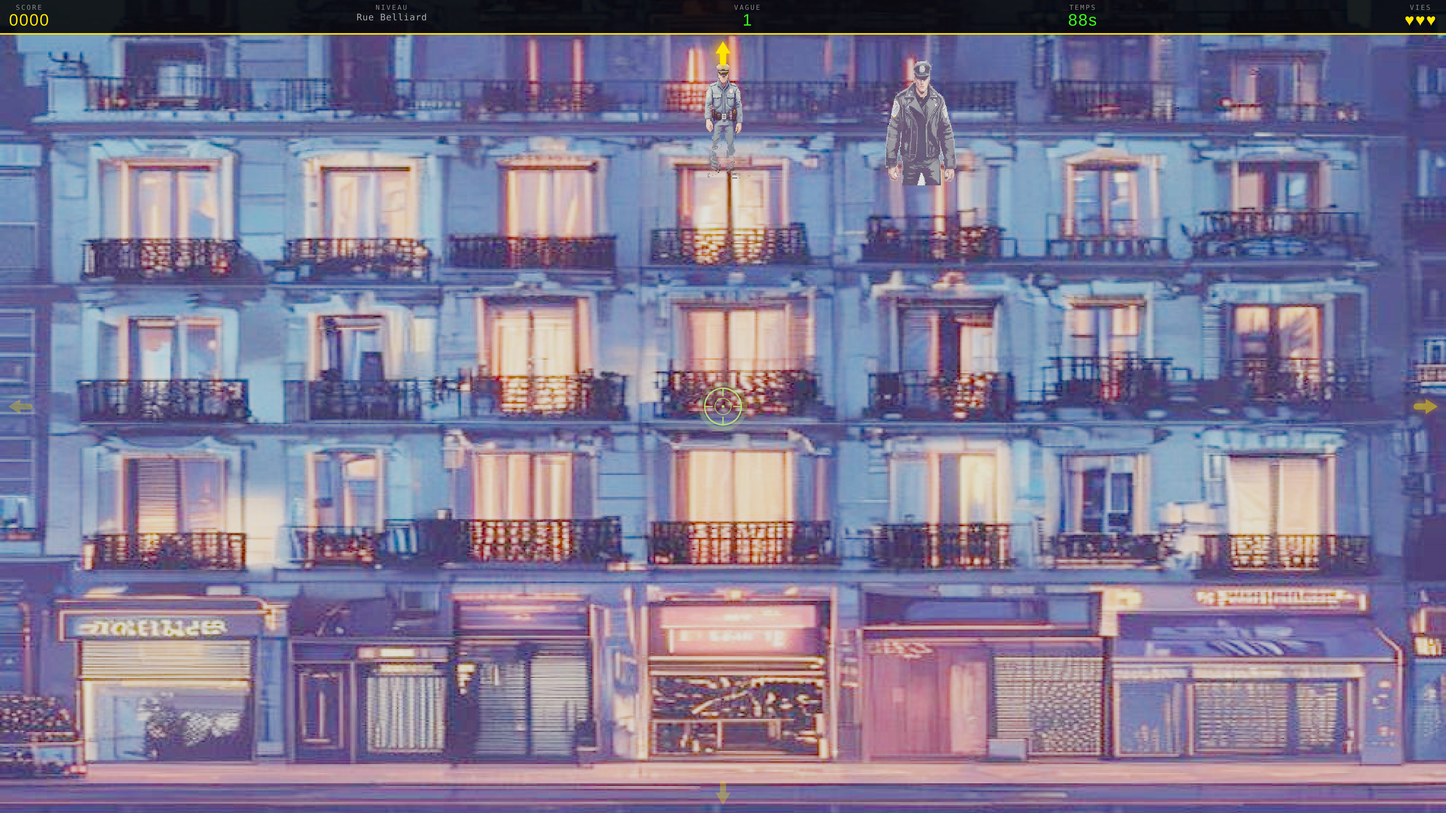
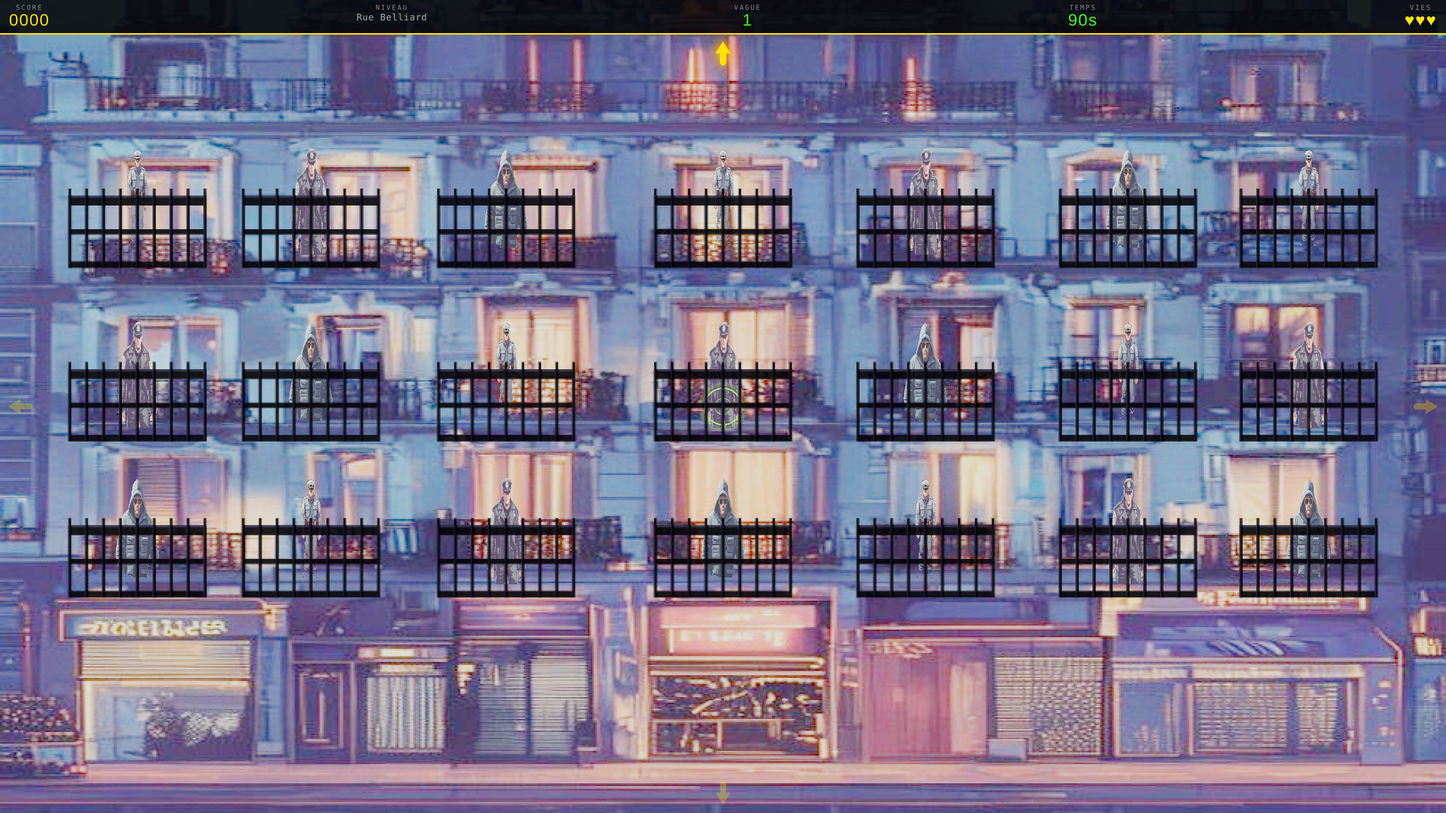
feat: AI facade backdrops + procedural balcony railings per level
Background facades are AI-generated (sky/facade/street) per level; the
foreground is procedural wrought-iron balcony railings drawn from per-level
window zones in levelArt.json, composited in front of the cops. Cops are
sized to the window and lowered so they stand behind the railing. Preview
workflow renders a contact-sheet artifact (with a dev-only freeze-cops hook).

diff --git a/src/render/scene/ForegroundFrames.tsx b/src/render/scene/ForegroundFrames.tsx
@@ -1,0 +1,89 @@
+import type { JSX } from "react";
+import { useMemo } from "react";
+import { CanvasTexture } from "three";
+import type { WindowZone } from "@game/levels/levelArt";
+import { applyPixelFilter } from "./pixelArt";
+
+// Native facade resolution to draw the frame texture at (matches the art).
+const TEX_W = 1280;
+const TEX_H = 768;
+const IRON = "rgba(9,7,18,0.88)";
+const HILIGHT = "rgba(150,150,180,0.32)";
+
+/**
+ * Build a transparent overlay texture: for each window zone, a wrought-iron
+ * frame + mullion cross and a balcony railing across the lower half. Drawn in
+ * facade-image space (y-down) so it lines up with the zones the cops sit in.
+ */
+function buildFrameTexture(zones: readonly WindowZone[]): CanvasTexture | null {
+  if (typeof document === "undefined") return null;
+  const canvas = document.createElement("canvas");
+  canvas.width = TEX_W;
+  canvas.height = TEX_H;
+  const g = canvas.getContext("2d");
+  if (g === null) return null;
+
+  g.clearRect(0, 0, TEX_W, TEX_H);
+  const lw = Math.max(2, TEX_W * 0.0045);
+
+  for (const z of zones) {
+    const ww = z.w * TEX_W;
+    const hh = z.h * TEX_H;
+    const left = z.x * TEX_W - ww / 2;
+    const top = z.y * TEX_H - hh / 2;
+    const cy = z.y * TEX_H;
+
+    // Wrought-iron balcony railing — the only foreground element, crossing in
+    // front of the cop's lower body. Top + mid + bottom rails, thin round
+    // balusters (left-edge sheen for a cylindrical look) and spear finials.
+    const railLeft = left - ww * 0.05;
+    const railW = ww * 1.1;
+    const railTop = cy + hh * 0.2;
+    const railBottom = top + hh + hh * 0.22;
+    const midY = (railTop + railBottom) / 2;
+
+    g.fillStyle = IRON;
+    g.fillRect(railLeft, railTop, railW, lw * 1.5); // top rail
+    g.fillRect(railLeft, midY - lw * 0.4, railW, lw * 0.8); // ornate mid rail
+    g.fillRect(railLeft, railBottom - lw, railW, lw); // bottom rail
+    g.fillStyle = HILIGHT;
+    g.fillRect(railLeft, railTop, railW, Math.max(1, lw * 0.35)); // top-rail sheen
+
+    const balusters = Math.max(6, Math.round(railW / (TEX_W * 0.012)));
+    const bw = lw * 0.5;
+    for (let i = 0; i <= balusters; i++) {
+      const bx = railLeft + railW * (i / balusters);
+      g.fillStyle = IRON;
+      g.fillRect(bx - bw / 2, railTop, bw, railBottom - railTop); // baluster
+      g.fillRect(bx - bw * 0.4, railTop - lw * 1.1, bw * 0.8, lw * 1.1); // spear finial
+      g.fillStyle = HILIGHT;
+      g.fillRect(bx - bw / 2, railTop, Math.max(1, bw * 0.34), railBottom - railTop); // sheen
+    }
+  }
+
+  const tex = new CanvasTexture(canvas);
+  applyPixelFilter(tex);
+  tex.needsUpdate = true;
+  return tex;
+}
+
+interface Props {
+  zones: readonly WindowZone[];
+  facadeW: number;
+  facadeH: number;
+}
+
+/**
+ * Foreground décor layer: window bars and iron railings rendered in front of
+ * the cops (z above the enemies), so they read as standing behind the windows.
+ */
+export function ForegroundFrames({ zones, facadeW, facadeH }: Props): JSX.Element | null {
+  const texture = useMemo(() => buildFrameTexture(zones), [zones]);
+  if (texture === null) return null;
+  return (
+    <mesh position={[0, 0, 0.5]} renderOrder={5}>
+      <planeGeometry args={[facadeW, facadeH]} />
+      <meshBasicMaterial map={texture} transparent depthWrite={false} />
+    </mesh>
+  );
+}

diff --git a/src/render/scene/EnemySprite.tsx b/src/render/scene/EnemySprite.tsx
@@ -39,9 +39,20 @@ interface Props {
   stateRef: React.RefObject<GameState>;
   slotIndex: number;
   screenPosition: Vec2;
+  /** World-space window size; the cop is sized to stand in it. */
+  size?: Vec2 | undefined;
 }
 
-export function EnemySprite({ stateRef, slotIndex, screenPosition }: Props): JSX.Element {
+export function EnemySprite({ stateRef, slotIndex, screenPosition, size }: Props): JSX.Element {
+  // Size the cop to roughly fit the window opening (head near the top, legs
+  // behind the railing), portrait aspect. Fallback for grid-only levels.
+  const planeH = size !== undefined ? size.y * 0.8 : 1.3;
+  const planeW = size !== undefined ? planeH * 0.5 : 0.8;
+  // Drop the sprite below the window centre so the feet rest at the sill/balcony
+  // and the railing crosses the legs (instead of the cop floating mid-window).
+  const bodyY = screenPosition.y - planeH * 0.28;
+  const muzzleX = planeW * 0.45;
+  const muzzleY = planeH * 0.12;
   const meshRef = useRef<Mesh>(null);
   const flashRef = useRef<Mesh>(null);
   const idleTextureRef = useRef<Texture | null>(null);
@@ -102,7 +113,7 @@ export function EnemySprite({ stateRef, slotIndex, screenPosition }: Props): JSX
 
     mesh.visible = true;
     mesh.position.x = screenPosition.x;
-    mesh.position.y = screenPosition.y;
+    mesh.position.y = bodyY;
 
     // Paper Mario unfold: scale Y 0 → 1 over APPEARING phase (~0.3s)
     if (enemy.state === "APPEARING") {
@@ -131,14 +142,14 @@ export function EnemySprite({ stateRef, slotIndex, screenPosition }: Props): JSX
       const fmat = flash.material as MeshBasicMaterial;
       if (enemy.state === "SHOOTING") {
         flash.visible = true;
-        flash.position.set(screenPosition.x + 0.62, screenPosition.y + 0.2, 0.2);
+        flash.position.set(screenPosition.x + muzzleX, bodyY + muzzleY, 0.6);
         const pulse = 0.7 + Math.sin(performance.now() * 0.04) * 0.25;
         flash.scale.setScalar(pulse);
         fmat.color.set("#ffd27a");
         fmat.opacity = 0.95;
       } else if (enemy.state === "HIT") {
         flash.visible = true;
-        flash.position.set(screenPosition.x, screenPosition.y + 0.1, 0.2);
+        flash.position.set(screenPosition.x, bodyY + 0.1, 0.6);
         flash.scale.setScalar(1.6);
         fmat.color.set("#ffffff");
         fmat.opacity = 1;
@@ -150,12 +161,12 @@ export function EnemySprite({ stateRef, slotIndex, screenPosition }: Props): JSX
 
   return (
     <>
-      <mesh ref={meshRef} position={[screenPosition.x, screenPosition.y, 0]} visible={false}>
-        <planeGeometry args={[1.4, 1.8]} />
+      <mesh ref={meshRef} position={[screenPosition.x, bodyY, 0]} visible={false}>
+        <planeGeometry args={[planeW, planeH]} />
         <meshBasicMaterial color="#ff3030" transparent />
       </mesh>
-      <mesh ref={flashRef} position={[screenPosition.x, screenPosition.y, 0.2]} visible={false}>
-        <planeGeometry args={[1, 1]} />
+      <mesh ref={flashRef} position={[screenPosition.x, bodyY, 0.6]} visible={false}>
+        <planeGeometry args={[0.8, 0.8]} />
         <meshBasicMaterial
           map={getGlowTexture()}
           transparent

diff --git a/src/game/levels/levelArt.ts b/src/game/levels/levelArt.ts
@@ -1,7 +1,7 @@
 import manifest from "./levelArt.json";
 import type { WindowSlot } from "@game/types/map";
 
-export type LayerName = "sky" | "facade" | "street";
+export type LayerName = "sky" | "facade" | "street" | "foreground";
 
 /** Native aspect ratio (w/h) of the facade art, used to size the plane. */
 export const FACADE_ASPECT = manifest.sizes.facade.width / manifest.sizes.facade.height;
@@ -60,6 +60,21 @@ export interface LevelArtParallax {
   readonly street: number;
 }
 
+/** A single hand-placed window, normalized to the facade image (centre + size, y-down). */
+export interface WindowZone {
+  readonly x: number;
+  readonly y: number;
+  readonly w: number;
+  readonly h: number;
+}
+
+/** Compact per-level window layout: shared size + rows of x-centres. */
+export interface WindowRows {
+  readonly w: number;
+  readonly h: number;
+  readonly rows: readonly { readonly y: number; readonly xs: readonly number[] }[];
+}
+
 export interface LevelArt {
   readonly id: string;
   readonly name: string;
@@ -68,6 +83,8 @@ export interface LevelArt {
   readonly prompts: Record<LayerName, string>;
   /** Per-level override of the enemy window grid; falls back to WINDOW_GRID. */
   readonly windowGrid?: WindowGrid;
+  /** Hand-authored window zones (level design); takes priority over windowGrid. */
+  readonly windows?: WindowRows;
 }
 
 const LEVELS = manifest.levels as readonly LevelArt[];
@@ -106,4 +123,41 @@ export function getLevelArt(id: string | undefined): LevelArt {
 /** The enemy window grid for a level (per-level override or the default). */
 export function getWindowGrid(id: string | undefined): WindowGrid {
   return getLevelArt(id).windowGrid ?? WINDOW_GRID;
+}
+
+/**
+ * Hand-authored window zones for a level (normalized, y-down). Uses the
+ * explicit `windows` layout when declared, otherwise expands the parametric
+ * window grid so every level still yields usable zones.
+ */
+export function getWindowZones(id: string | undefined): WindowZone[] {
+  const art = getLevelArt(id);
+  if (art.windows !== undefined) {
+    const { w, h, rows } = art.windows;
+    return rows.flatMap((row) => row.xs.map((x) => ({ x, y: row.y, w, h })));
+  }
+  const g = art.windowGrid ?? WINDOW_GRID;
+  const zones: WindowZone[] = [];
+  for (let r = 0; r < g.rows; r++) {
+    const y = g.rows === 1 ? 0.5 : lerp(g.top, g.bottom, r / (g.rows - 1));
+    for (let c = 0; c < g.cols; c++) {
+      const x = g.cols === 1 ? 0.5 : lerp(g.left, g.right, c / (g.cols - 1));
+      zones.push({ x, y, w: 0.085, h: 0.12 });
+    }
+  }
+  return zones;
+}
+
+/** Enemy slots in world space, derived from the level's window zones. */
+export function computeLevelSlots(
+  id: string | undefined,
+  facadeW: number,
+  facadeH: number,
+): WindowSlot[] {
+  return getWindowZones(id).map((z, i) => ({
+    col: i,
+    row: 0,
+    screenPosition: { x: (z.x - 0.5) * facadeW, y: (0.5 - z.y) * facadeH },
+    size: { x: z.w * facadeW, y: z.h * facadeH },
+  }));
 }

diff --git a/src/render/scene/GameScene.tsx b/src/render/scene/GameScene.tsx
@@ -4,14 +4,15 @@ import { useFrame, useThree } from "@react-three/fiber";
 import type { OrthographicCamera } from "three";
 import { useGameLoop } from "@hooks/useGameLoop";
 import {
-  computeWindowSlots,
+  computeLevelSlots,
   FACADE_ASPECT,
-  getWindowGrid,
+  getWindowZones,
   WORLD_HEIGHT,
 } from "@game/levels/levelArt";
 import type { HudData } from "@render/ui/HUD";
 import type { LevelParams } from "@game/systems/stateMachine";
 import { LevelBackdrop } from "./LevelBackdrop";
+import { ForegroundFrames } from "./ForegroundFrames";
 import { CrosshairSprite } from "./CrosshairSprite";
 import { EnemySprite } from "./EnemySprite";
 import { BulletSprite } from "./BulletSprite";
@@ -39,17 +40,14 @@ export function GameScene({
   paused,
 }: Props): JSX.Element {
   // The level is an image now: size the playfield from the facade art's native
-  // aspect ratio, and place enemy windows on a normalized grid over it.
+  // aspect ratio, and place enemy windows from the level's hand-authored zones.
   const facadeH = WORLD_HEIGHT;
   const facadeW = WORLD_HEIGHT * FACADE_ASPECT;
 
+  const zones = useMemo(() => getWindowZones(levelId), [levelId]);
   const mergedFacade = useMemo(() => {
-    const grid = getWindowGrid(levelId);
-    return {
-      width: grid.cols,
-      height: grid.rows,
-      slots: computeWindowSlots(facadeW, facadeH, grid),
-    };
+    const slots = computeLevelSlots(levelId, facadeW, facadeH);
+    return { width: slots.length, height: 1, slots };
   }, [facadeW, facadeH, levelId]);
 
   const stateRef = useGameLoop(mergedFacade, canvasRef, onHudUpdate, playSfx, levelParams, paused);
@@ -105,8 +103,10 @@ export function GameScene({
           stateRef={stateRef}
           slotIndex={idx}
           screenPosition={slot.screenPosition}
+          size={slot.size}
         />
       ))}
+      <ForegroundFrames zones={zones} facadeW={facadeW} facadeH={facadeH} />
       <BulletSprite stateRef={stateRef} />
       <CrosshairSprite stateRef={stateRef} cameraRef={camera} />
     </>

diff --git a/src/render/scene/ForegroundImage.tsx b/src/render/scene/ForegroundImage.tsx
@@ -1,0 +1,51 @@
+import type { JSX } from "react";
+import { useEffect, useRef } from "react";
+import { TextureLoader } from "three";
+import type { Mesh, MeshBasicMaterial } from "three";
+import { getLevelArt, levelLayerUrl } from "@game/levels/levelArt";
+import { applyPixelFilter } from "./pixelArt";
+
+interface Props {
+  levelId: string | undefined;
+  facadeW: number;
+  facadeH: number;
+}
+
+/**
+ * AI-generated foreground décor layer (chroma-keyed to transparency in CI),
+ * composited in front of the cops. Stays hidden if the image is unavailable,
+ * so the procedural railings underneath remain the fallback.
+ */
+export function ForegroundImage({ levelId, facadeW, facadeH }: Props): JSX.Element {
+  const meshRef = useRef<Mesh>(null);
+  const art = getLevelArt(levelId);
+
+  useEffect(() => {
+    const loader = new TextureLoader();
+    let cancelled = false;
+    loader.load(
+      levelLayerUrl(art.id, "foreground"),
+      (texture) => {
+        applyPixelFilter(texture);
+        const mesh = meshRef.current;
+        if (mesh === null || cancelled) return;
+        const mat = mesh.material as MeshBasicMaterial;
+        mat.map = texture;
+        mat.needsUpdate = true;
+        mesh.visible = true;
+      },
+      undefined,
+      () => undefined,
+    );
+    return () => {
+      cancelled = true;
+    };
+  }, [art.id]);
+
+  return (
+    <mesh ref={meshRef} position={[0, 0, 0.65]} renderOrder={6} visible={false}>
+      <planeGeometry args={[facadeW, facadeH]} />
+      <meshBasicMaterial transparent depthWrite={false} />
+    </mesh>
+  );
+}

diff --git a/src/hooks/useGameLoop.ts b/src/hooks/useGameLoop.ts
@@ -106,7 +106,23 @@ export function useGameLoop(
       viewH,
       levelParams?.enemiesToWin,
     );
-    gameStateRef.current = next;
+    // Dev/screenshot hook: when set, put one VISIBLE cop (no shooting) in every
+    // window so contact-sheet captures show cop-vs-window proportion across the
+    // whole facade. Never set in production.
+    const frozen =
+      typeof window !== "undefined" &&
+      (window as unknown as { __MUF_FREEZE_COPS__?: boolean }).__MUF_FREEZE_COPS__ === true;
+    gameStateRef.current = frozen
+      ? {
+          ...next,
+          enemies: facade.slots.map((_slot, i) => ({
+            id: i,
+            slotIndex: i,
+            state: "VISIBLE" as const,
+            timer: 999,
+          })),
+        }
+      : next;
 
     const nextCrosshairLocal = crosshairToWorld(next.crosshair, viewW, viewH);
     const nextCrosshairWorld = {

diff --git a/src/game/types/map.ts b/src/game/types/map.ts
@@ -4,6 +4,8 @@ export interface WindowSlot {
   readonly col: number;
   readonly row: number;
   readonly screenPosition: Vec2;
+  /** World-space size (width,height) of the window this slot sits in, if known. */
+  readonly size?: Vec2;
 }
 
 export interface FacadeMap {
